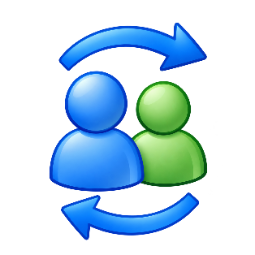
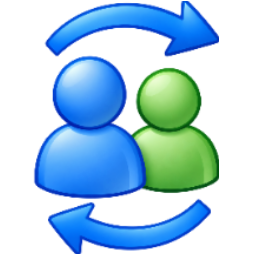
2.1a
- Updated icon
- Updated translation in about window title
- Added reload_lang to the update checker dialogs
- Used button box in edit dialog

diff --git a/src/ui/about_wnd.py b/src/ui/about_wnd.py
@@ -16,7 +16,7 @@ class RSAPAboutWnd(QDialog):
 		super().__init__(parent)
 		self.parent = parent
 
-		self.setWindowTitle('About RSAP')
+		self.setWindowTitle(tr('mainwnd_about') + ' RSAP')
 		self.setFixedSize(g())
 
 		self.updchk_dialog = UpdchkDialog(self)
